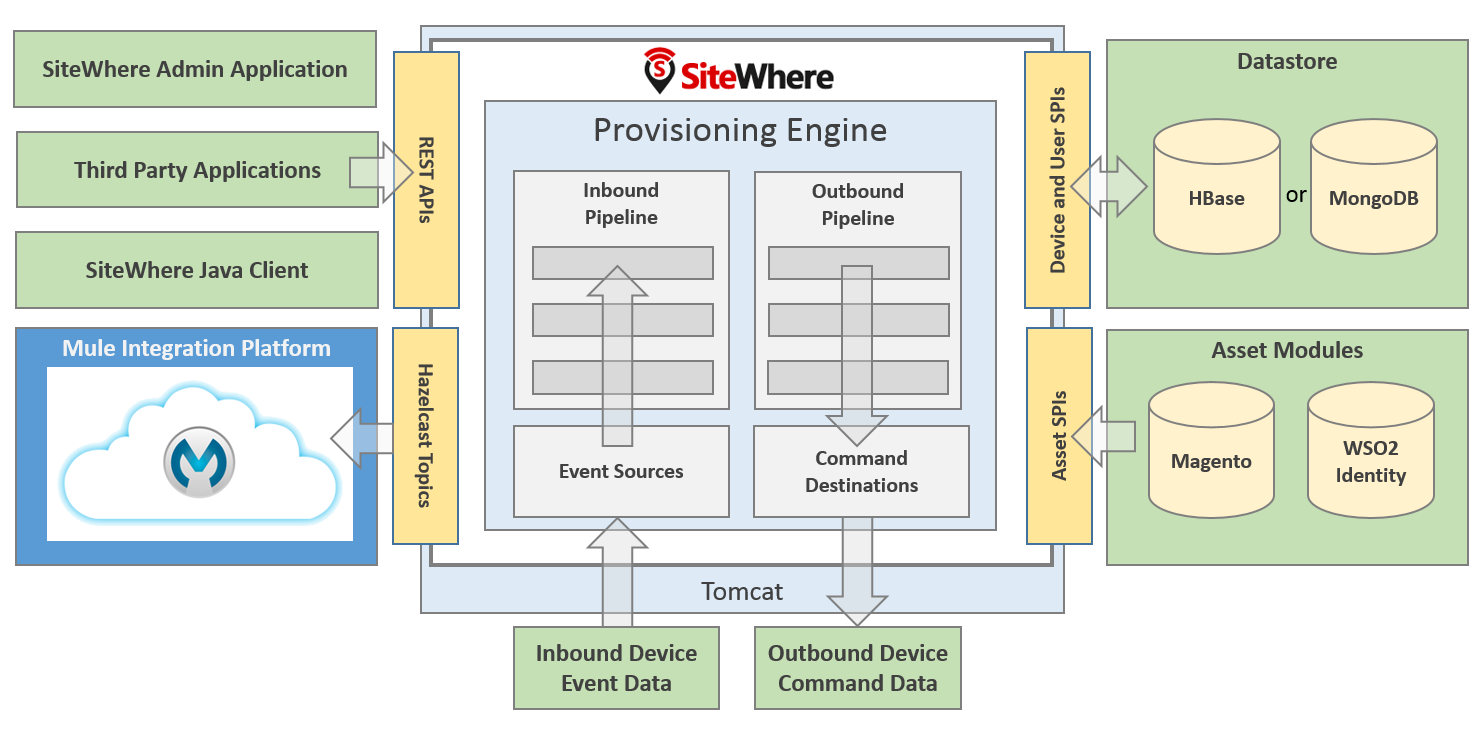
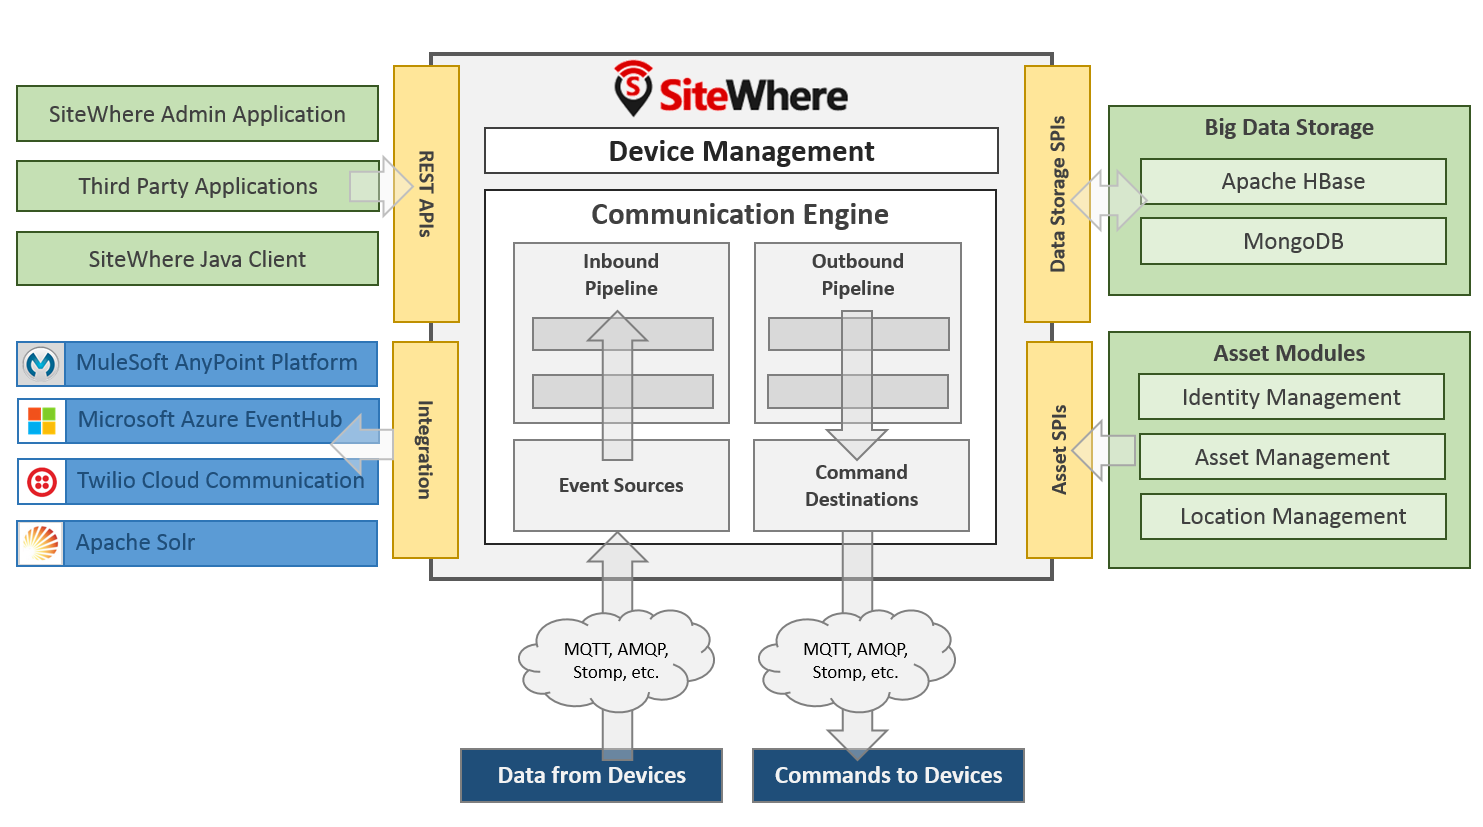
Updated documentation and diagrams.

diff --git a/sitewhere-documentation/src/site/sphinx/architecture.rst b/sitewhere-documentation/src/site/sphinx/architecture.rst
@@ -169,15 +169,14 @@ SiteWhere uses for searches on its core datastores. This approach allows SiteWhe
 data if necessary, and presents a single view of the data whether stored in SiteWhere or indexed in an
 engine optimized for adhoc queries.
 
--------------------
-Provisioning Engine
--------------------
-A central concept in SiteWhere is the idea of device provisioning. Device provisioning can be a loaded term since,
-depending on who you ask, it can mean anything from setting up network access, to loading firmware, to activating 
-or otherwise enabling a device. Provisioning in SiteWhere involves a few key elements.
+--------------------
+Communication Engine
+--------------------
+The SiteWhere communication engine handles all functionality related to interacting with devices. 
+Its responsibilities include:
 
 :Registration of new or existing devices:
-	SiteWhere has services and API calls for creating new devices, but it is often preferable to have devices
+	SiteWhere devices can be created manually with API calls, but it is often preferable to have devices
 	self-register. In that case, the device provides a unique hardware id and a specification token to the
 	system which in turns creates a new device record that can start accepting events. SiteWhere assumes that
 	each device will have a unique id in the system so it can be independently addressed. The specification 
@@ -187,11 +186,11 @@ or otherwise enabling a device. Provisioning in SiteWhere involves a few key ele
 	to the device indicating the registration status.
 	
 :Receipt of events from connected devices:
-	Once registered with the system, devices can report any number or type of events to SiteWhere, which in turn stores
-	the events. Event types include location updates, sensor measurements and other acquired data, or alerts in response
-	to exceptional events. Devices also have the ability to acknowledge receipt of commands issued by SiteWhere.
-	Events are delivered to SiteWhere via an inbound event pipeline, which can be configured to watch on
-	various transports and use various methods of decoding events.
+   Once registered with the system, devices can report any number or type of events to SiteWhere, which in turn stores
+   the events. Event types include location updates, sensor measurements and other acquired data, or alerts in response
+   to exceptional events. Devices also have the ability to acknowledge receipt of commands issued by SiteWhere.
+   Events are delivered to SiteWhere via an inbound event pipeline which provides a modular way
+   of introducing new functionality for processing incoming data.
 	
 :Delivery of commands to connected devices:
 	Each device registered with SiteWhere has an associated device specification which is tied to the type
@@ -201,11 +200,11 @@ or otherwise enabling a device. Provisioning in SiteWhere involves a few key ele
 	user interface or via REST calls. When commands are executed, they travel through a pipeline that encodes them
 	in an expected format and delivers them across an expected protocol.
 	
-The flow of data in the SiteWhere provisioning engine is shown below:
+The flow of data in the SiteWhere communication engine is shown below:
 
-.. image:: /_static/images/provisioning/provisioning.png
+.. image:: /_static/images/communication-engine.png
    :width: 100%
-   :alt: SiteWhere Provisioning Data Flow
+   :alt: SiteWhere Communication Engine
    :align: left
 
 	
